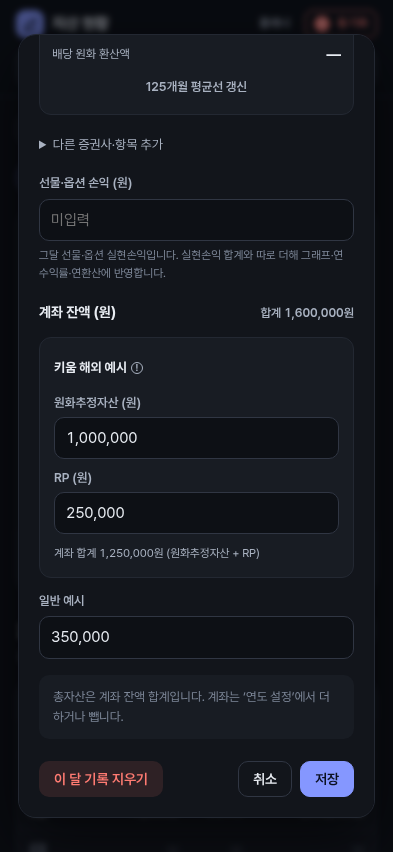
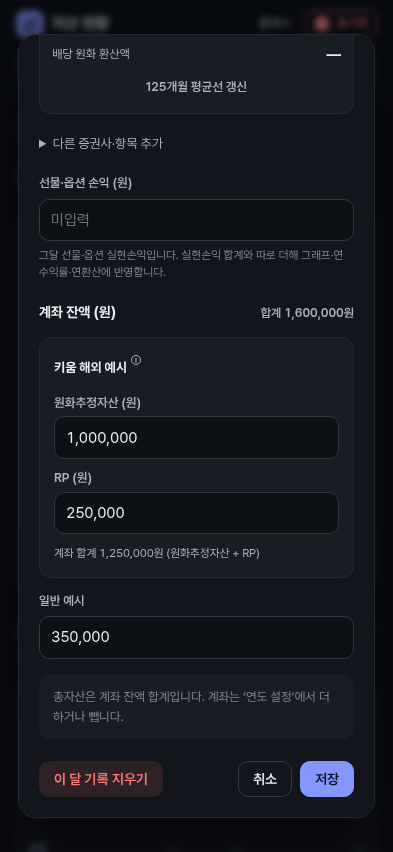
월 입력 안내 아이콘을 더 작게 줄여 오른쪽 위에 배치

diff --git a/index.html b/index.html
@@ -15,11 +15,11 @@
   <title>매매 플래너 (독립형)</title>
   <link rel="icon" href="push-icon.svg" type="image/svg+xml" />
   <link rel="preconnect" href="https://cdn.jsdelivr.net" crossorigin />
-  <script src="js/theme.js?v=332"></script>
+  <script src="js/theme.js?v=333"></script>
   <link rel="stylesheet" href="https://cdn.jsdelivr.net/gh/orioncactus/pretendard@v1.3.9/dist/web/variable/pretendardvariable-dynamic-subset.min.css" />
-  <link rel="stylesheet" href="css/app.css?v=332" />
-  <link rel="stylesheet" href="css/purchases.css?v=332" />
-  <script src="js/repo-security.js?v=332" defer></script>
+  <link rel="stylesheet" href="css/app.css?v=333" />
+  <link rel="stylesheet" href="css/purchases.css?v=333" />
+  <script src="js/repo-security.js?v=333" defer></script>
 </head>
 <body>
   <header class="top">
@@ -268,31 +268,31 @@
   <dialog id="futureRebuyStartDialog" aria-labelledby="futureRebuyStartTitle"></dialog>
   <dialog id="rebuyRuleDialog" aria-labelledby="rebuyRuleTitle"></dialog>
 
-  <script src="js/ma-ladder.js?v=332" defer></script>
-  <script src="js/data-validation.js?v=332" defer></script>
-  <script src="js/core.js?v=332" defer></script>
-  <script src="js/price-collection.js?v=332" defer></script>
-  <script src="js/sync.js?v=332" defer></script>
-  <script src="js/prices.js?v=332" defer></script>
-  <script src="js/assets-calc.js?v=332" defer></script>
-  <script src="js/assets-store.js?v=332" defer></script>
-  <script src="js/alloc-link.js?v=332" defer></script>
-  <script src="js/stock-names.js?v=332" defer></script>
-  <script src="js/item-search.js?v=332" defer></script>
-  <script src="js/purchases.js?v=332" defer></script>
-  <script src="js/trade-alerts.js?v=332" defer></script>
-  <script src="js/plans.js?v=332" defer></script>
-  <script src="js/futures.js?v=332" defer></script>
-  <script src="js/futures-plan.js?v=332" defer></script>
-  <script src="js/futures-rebuy.js?v=332" defer></script>
-  <script src="js/rebuy.js?v=332" defer></script>
-  <script src="js/alerts.js?v=332" defer></script>
-  <script src="js/alert-target.js?v=332" defer></script>
-  <script src="js/alert-history-store.js?v=332" defer></script>
-  <script src="js/alert-history.js?v=332" defer></script>
-  <script src="js/push.js?v=332" defer></script>
-  <script src="js/member-link.js?v=332" defer></script>
-  <script src="js/member-go.js?v=332" defer></script>
-  <script src="js/start.js?v=332" defer></script>
+  <script src="js/ma-ladder.js?v=333" defer></script>
+  <script src="js/data-validation.js?v=333" defer></script>
+  <script src="js/core.js?v=333" defer></script>
+  <script src="js/price-collection.js?v=333" defer></script>
+  <script src="js/sync.js?v=333" defer></script>
+  <script src="js/prices.js?v=333" defer></script>
+  <script src="js/assets-calc.js?v=333" defer></script>
+  <script src="js/assets-store.js?v=333" defer></script>
+  <script src="js/alloc-link.js?v=333" defer></script>
+  <script src="js/stock-names.js?v=333" defer></script>
+  <script src="js/item-search.js?v=333" defer></script>
+  <script src="js/purchases.js?v=333" defer></script>
+  <script src="js/trade-alerts.js?v=333" defer></script>
+  <script src="js/plans.js?v=333" defer></script>
+  <script src="js/futures.js?v=333" defer></script>
+  <script src="js/futures-plan.js?v=333" defer></script>
+  <script src="js/futures-rebuy.js?v=333" defer></script>
+  <script src="js/rebuy.js?v=333" defer></script>
+  <script src="js/alerts.js?v=333" defer></script>
+  <script src="js/alert-target.js?v=333" defer></script>
+  <script src="js/alert-history-store.js?v=333" defer></script>
+  <script src="js/alert-history.js?v=333" defer></script>
+  <script src="js/push.js?v=333" defer></script>
+  <script src="js/member-link.js?v=333" defer></script>
+  <script src="js/member-go.js?v=333" defer></script>
+  <script src="js/start.js?v=333" defer></script>
 </body>
 </html>

diff --git a/css/assets.css b/css/assets.css
@@ -117,8 +117,8 @@
 /* RP는 계좌 합계에 포함하되 별도 입력한다. 안내는 dialog 위 top layer에 띄우고 기존 색 토큰만 쓴다. */
 .pnl-balance-title{display:flex;justify-content:space-between;align-items:baseline;flex-wrap:wrap;gap:4px 12px}.pnl-balance-title output{margin-left:auto;font-size:12px;font-weight:600;color:var(--text-2);font-variant-numeric:tabular-nums}
 .ledger-rp-account{min-width:0;align-self:start;display:grid;gap:10px;padding:14px;border:1px solid var(--line);border-radius:12px;background:var(--surface-2)}.ledger-rp-head{display:flex;align-items:center;gap:4px;min-width:0}.ledger-rp-head>strong{font-size:13px;color:var(--text);overflow-wrap:anywhere}.ledger-rp-account .field{gap:4px}
-/* 보이는 아이콘은 계좌 이름보다 작게, 누르는 영역은 32px로 유지한다. */
-.ledger-rp-button{flex:none;display:inline-flex;align-items:center;justify-content:flex-start;width:32px;height:32px;padding:0;border:0;border-radius:50%;background:transparent;color:var(--text-2);font-size:9px;font-weight:700;line-height:1}.ledger-rp-button>span{display:inline-grid;place-items:center;width:12px;height:12px;border:1px solid currentColor;border-radius:50%;pointer-events:none}.ledger-rp-button:focus-visible{outline:2px solid var(--accent);outline-offset:2px}
+/* 작은 안내 아이콘은 이름 오른쪽 위에 두고, 누르는 영역은 32px로 유지한다. */
+.ledger-rp-button{flex:none;display:inline-flex;align-items:center;justify-content:flex-start;width:32px;height:32px;padding:0;border:0;border-radius:50%;background:transparent;color:var(--text-2);font-size:8px;font-weight:700;line-height:1}.ledger-rp-button>span{display:inline-grid;place-items:center;width:10px;height:10px;border:1px solid currentColor;border-radius:50%;transform:translateY(-8px);pointer-events:none}.ledger-rp-button:focus-visible{outline:2px solid var(--accent);outline-offset:2px}
 .ledger-rp-help{position:fixed;inset:auto;margin:0;width:min(300px,calc(100vw - 32px));padding:14px 16px;border:1px solid var(--line-strong);border-radius:12px;background:var(--surface);color:var(--text);box-shadow:var(--shadow-lg)}.ledger-rp-help>strong{display:block;font-size:14px}.ledger-rp-help>small{display:block;margin-top:6px;color:var(--text-2);font-size:12px;line-height:1.7;word-break:keep-all;overflow-wrap:anywhere}.ledger-account-total{color:var(--text-2);font-size:11.5px;line-height:1.6;font-variant-numeric:tabular-nums;overflow-wrap:anywhere}
 .pnl-conversion{display:flex;flex-wrap:wrap;align-items:center;justify-content:space-between;gap:4px 12px;padding-top:8px;border-top:1px solid var(--line);color:var(--text-2);font-size:12px}.pnl-conversion output{font-size:15px;font-weight:700;color:var(--text);font-variant-numeric:tabular-nums}
 .account-rows{display:grid;gap:6px;margin-bottom:6px}.account-row{display:grid;grid-template-columns:minmax(0,1fr) auto;gap:8px;align-items:center}.account-row input:not([type]){width:100%;min-height:38px;padding:7px 10px;border:1px solid var(--line-strong);border-radius:9px;background:var(--field);color:var(--text)}

diff --git a/assets.html b/assets.html
@@ -16,11 +16,11 @@
   <title>자산 현황</title>
   <link rel="icon" href="push-icon.svg" type="image/svg+xml" />
   <link rel="preconnect" href="https://cdn.jsdelivr.net" crossorigin />
-  <script src="js/theme.js?v=332"></script>
+  <script src="js/theme.js?v=333"></script>
   <link rel="stylesheet" href="https://cdn.jsdelivr.net/gh/orioncactus/pretendard@v1.3.9/dist/web/variable/pretendardvariable-dynamic-subset.min.css" />
-  <link rel="stylesheet" href="css/app.css?v=332" />
-  <link rel="stylesheet" href="css/assets.css?v=332" />
-  <script src="js/repo-security.js?v=332" defer></script>
+  <link rel="stylesheet" href="css/app.css?v=333" />
+  <link rel="stylesheet" href="css/assets.css?v=333" />
+  <script src="js/repo-security.js?v=333" defer></script>
 </head>
 <body class="assets-page">
   <header class="top">
@@ -135,17 +135,17 @@
     <p class="file-tools">JSON 파일 <button class="text-link" id="exportBtn" type="button">백업</button> · <label class="text-link" for="importInput">복원<input id="importInput" type="file" accept="application/json" hidden /></label></p>
   </div></dialog>
 
-  <script src="js/ma-ladder.js?v=332" defer></script>
-  <script src="js/data-validation.js?v=332" defer></script>
-  <script src="js/assets-calc.js?v=332" defer></script>
-  <script src="js/price-collection.js?v=332" defer></script>
-  <script src="js/assets-store.js?v=332" defer></script>
-  <script src="js/member-link.js?v=332" defer></script>
-  <script src="js/ledger-benchmark.js?v=332" defer></script>
-  <script src="js/assets.js?v=332" defer></script>
-  <script src="js/assets-ledger.js?v=332" defer></script>
-  <script src="js/assets-savings.js?v=332" defer></script>
-  <script src="js/assets-installments.js?v=332" defer></script>
-  <script src="js/assets-start.js?v=332" defer></script>
+  <script src="js/ma-ladder.js?v=333" defer></script>
+  <script src="js/data-validation.js?v=333" defer></script>
+  <script src="js/assets-calc.js?v=333" defer></script>
+  <script src="js/price-collection.js?v=333" defer></script>
+  <script src="js/assets-store.js?v=333" defer></script>
+  <script src="js/member-link.js?v=333" defer></script>
+  <script src="js/ledger-benchmark.js?v=333" defer></script>
+  <script src="js/assets.js?v=333" defer></script>
+  <script src="js/assets-ledger.js?v=333" defer></script>
+  <script src="js/assets-savings.js?v=333" defer></script>
+  <script src="js/assets-installments.js?v=333" defer></script>
+  <script src="js/assets-start.js?v=333" defer></script>
 </body>
 </html>

diff --git a/valuation.html b/valuation.html
@@ -14,13 +14,13 @@
   <meta name="theme-color" media="(prefers-color-scheme: dark)" content="#0a0c10">
   <link rel="icon" href="push-icon.svg" type="image/svg+xml">
   <link rel="preconnect" href="https://cdn.jsdelivr.net" crossorigin>
-  <script src="js/theme.js?v=332"></script>
+  <script src="js/theme.js?v=333"></script>
   <link rel="stylesheet" href="https://cdn.jsdelivr.net/gh/orioncactus/pretendard@v1.3.9/dist/web/variable/pretendardvariable-dynamic-subset.min.css">
   <title>AI 구독 · 삼성SDI · ETF · 환율 시나리오</title>
   <meta name="description" content="AI 구독사업, 삼성SDI, ETF의 장기 가치와 한미 GDP·M2로 계산한 원·달러 상대 통화압력을 살펴봅니다.">
-  <link rel="stylesheet" href="css/currency-pressure.css?v=332">
-  <link rel="stylesheet" href="css/valuation.css?v=332">
-  <script src="js/repo-security.js?v=332" defer></script>
+  <link rel="stylesheet" href="css/currency-pressure.css?v=333">
+  <link rel="stylesheet" href="css/valuation.css?v=333">
+  <script src="js/repo-security.js?v=333" defer></script>
 </head>
 <body>
 <header class="top">
@@ -471,7 +471,7 @@
     <p class="tiny" style="margin:12px 0 0">직접 바꾼 값만 저장합니다. 바꾸지 않은 기준 종가·시총 등은 페이지가 갱신되면 새 기준값을 따릅니다.</p>
   </div>
 </dialog>
-<script src="js/valuation.js?v=332" defer></script>
-<script src="js/currency-pressure.js?v=332" defer></script>
+<script src="js/valuation.js?v=333" defer></script>
+<script src="js/currency-pressure.js?v=333" defer></script>
 </body>
 </html>
